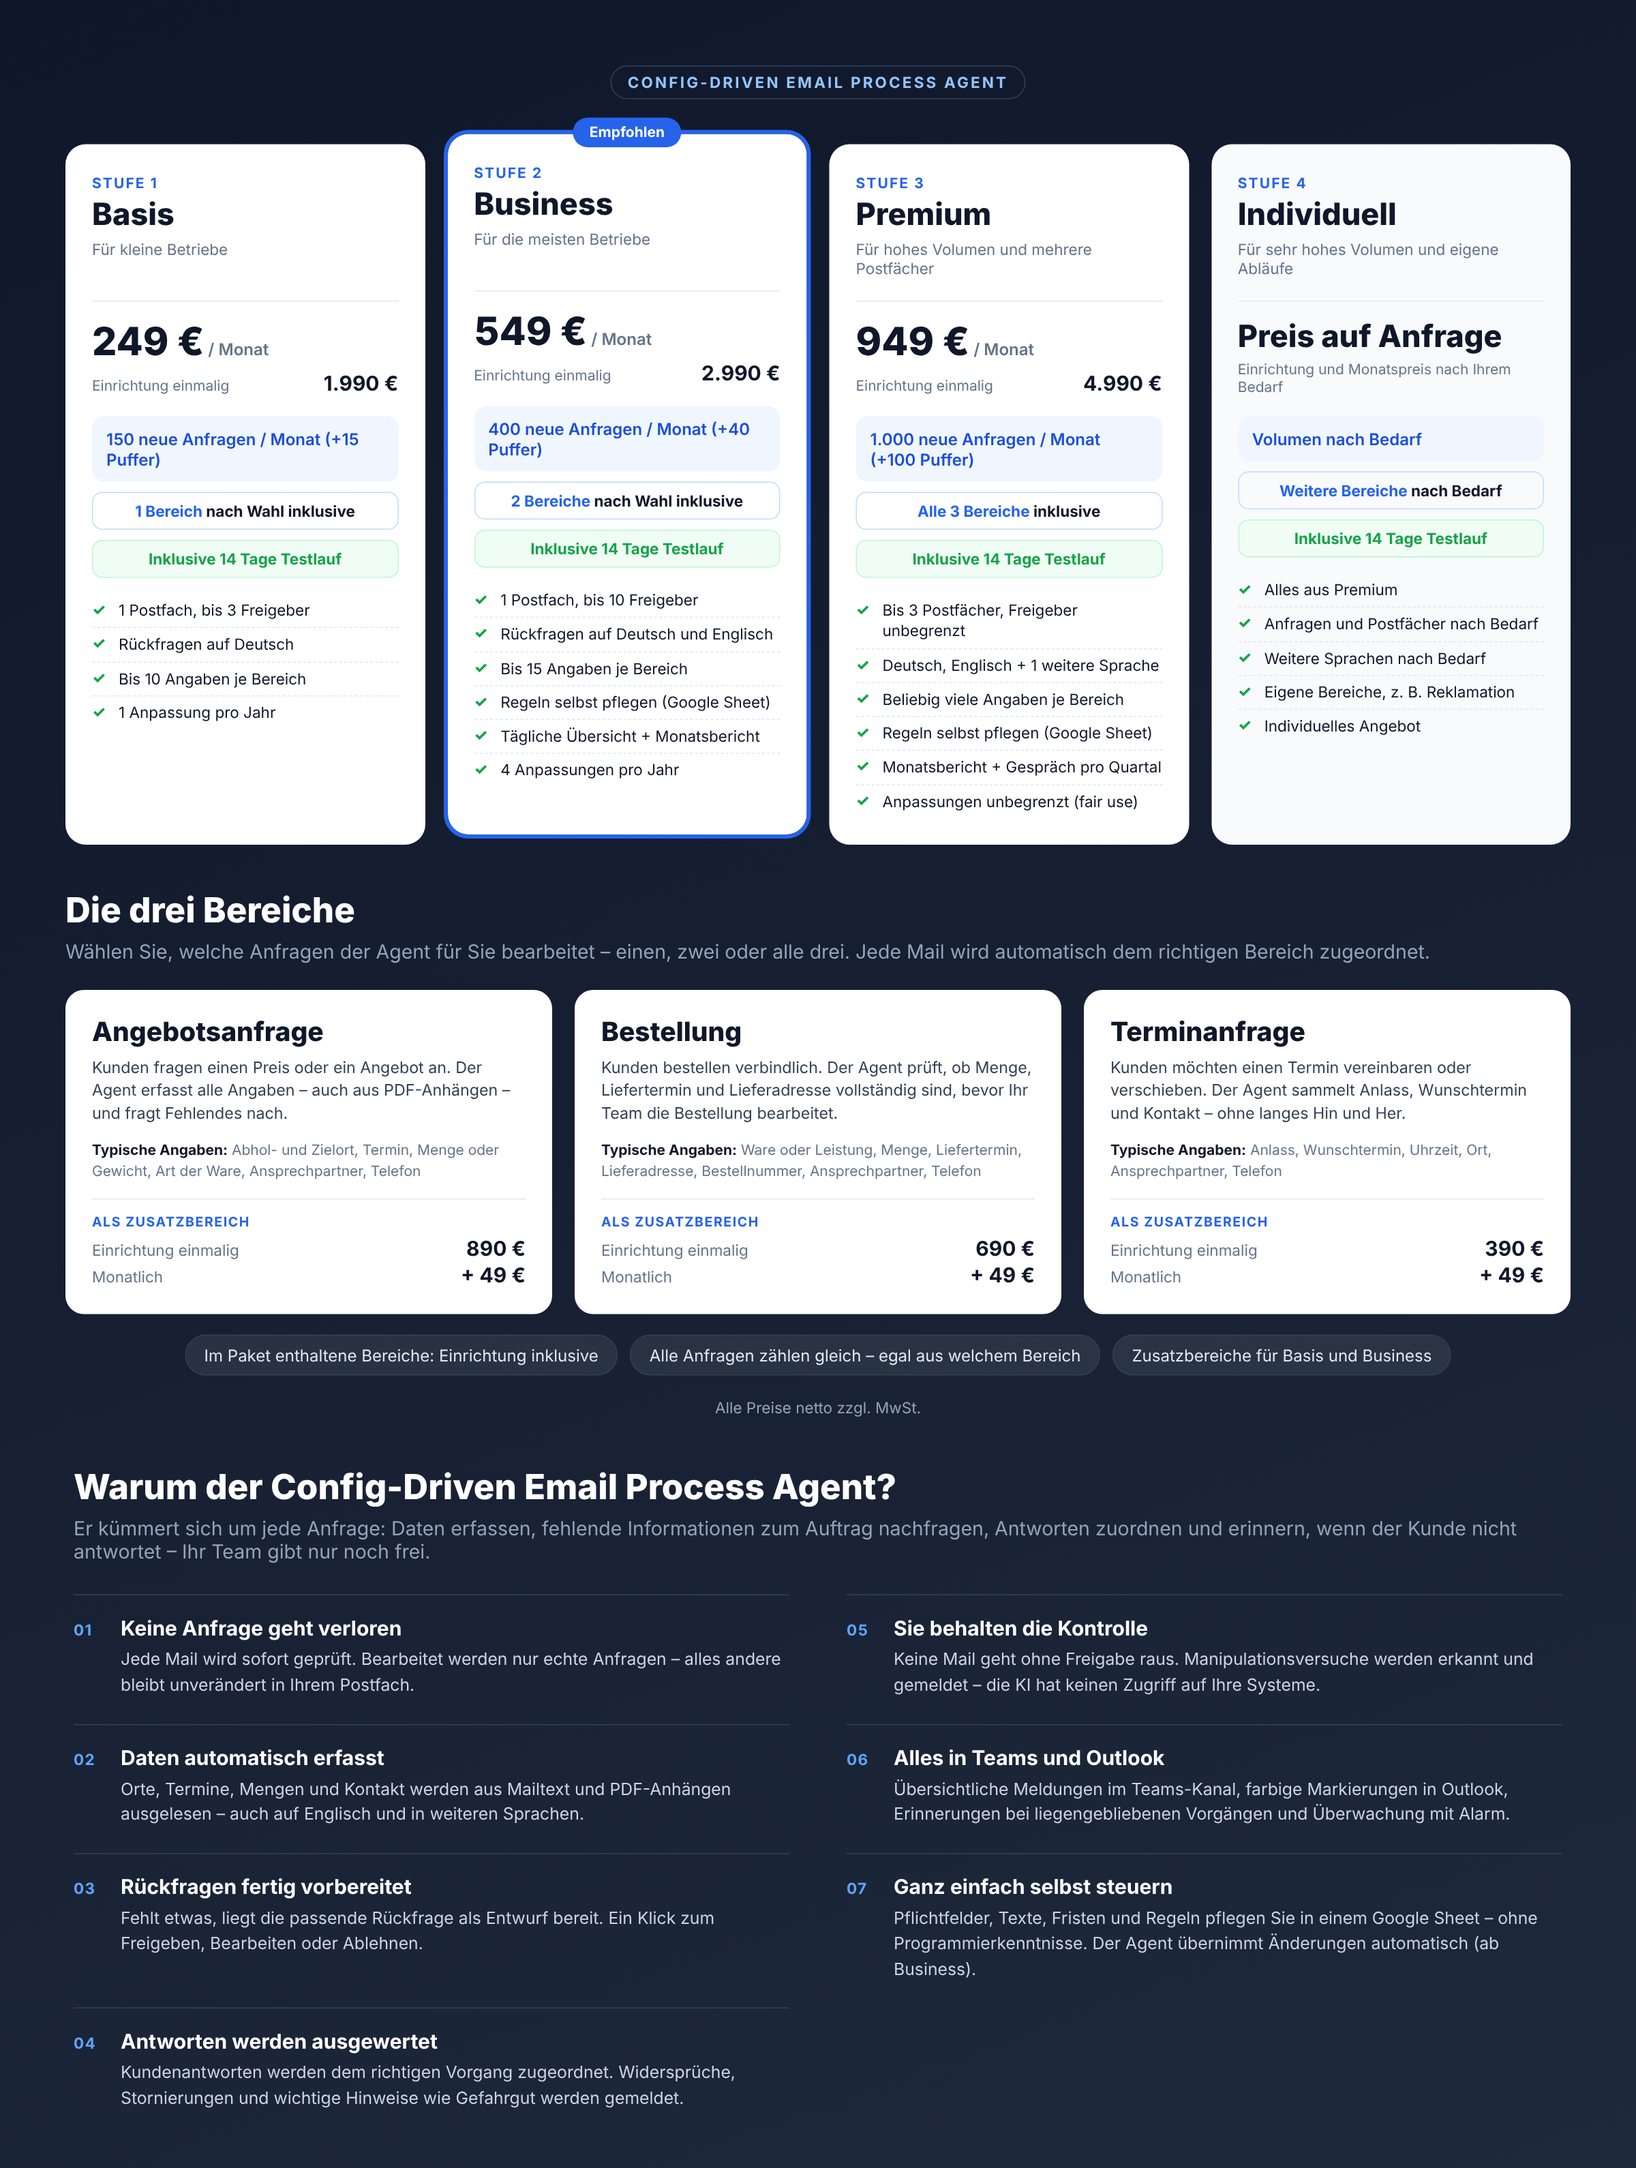
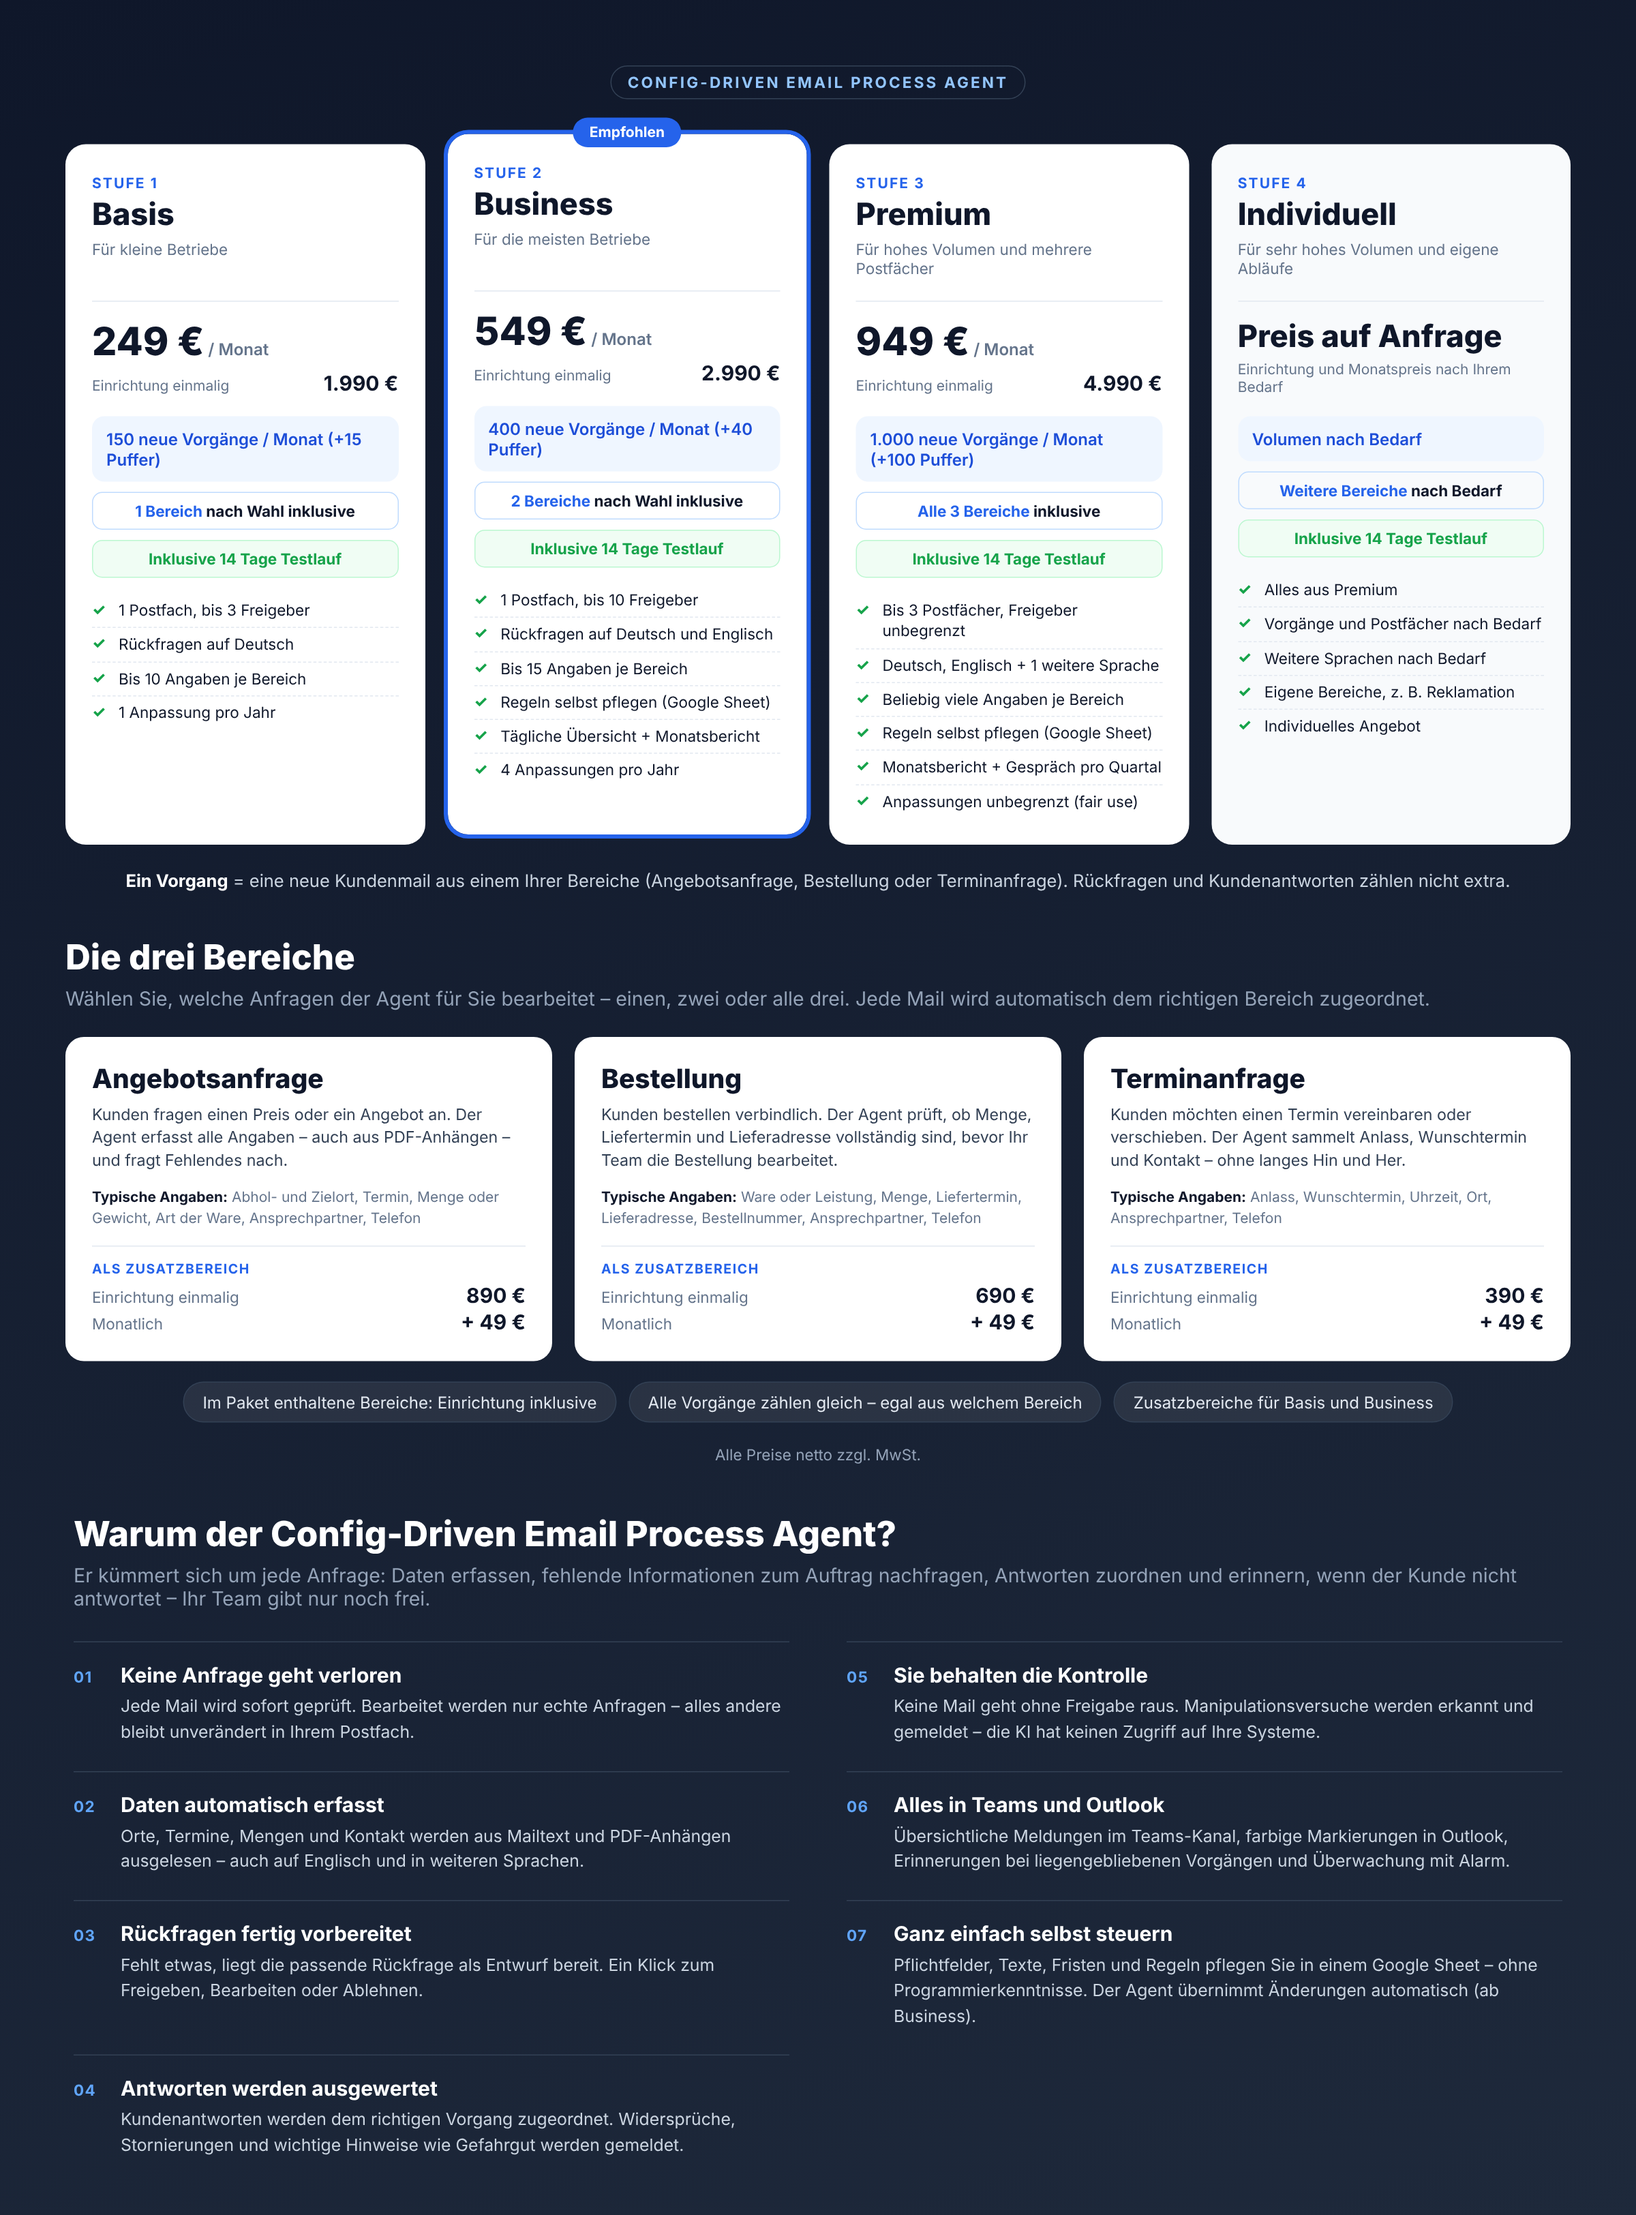
Marketing: Kontingent als Vorgänge statt Anfragen, mit Erklärung
Claude-Session: https://claude.ai/code/session_01DWBN4EiRV4Kip9NV7YGeLF

diff --git a/email-process-agent/docs/marketing/pakete-bereiche.html b/email-process-agent/docs/marketing/pakete-bereiche.html
@@ -68,6 +68,8 @@ li::before{content:"✓";position:absolute;left:0;top:5px;color:var(--ok);font-w
 .b .zus .w b{font-size:20px;color:var(--ink)}
 .hinweis{margin-top:20px;display:flex;flex-wrap:wrap;gap:12px;justify-content:center}
 .hinweis span{background:rgba(255,255,255,.08);border:1px solid #334155;border-radius:999px;padding:9px 18px;font-size:16px;color:#e2e8f0}
+.def{margin-top:26px;text-align:center;font-size:17px;color:#cbd5e1}
+.def b{color:#fff}
 </style></head><body>
 <div class="kopf">
   <div class="tag">Config-Driven Email Process Agent</div>
@@ -82,7 +84,7 @@ li::before{content:"✓";position:absolute;left:0;top:5px;color:var(--ok);font-w
       <div class="zeile"><span class="mon">249 €<small> / Monat</small></span></div>
       <div class="zeile"><span class="l">Einrichtung einmalig</span><span class="ein">1.990 €</span></div>
     </div>
-    <div class="menge">150 neue Anfragen / Monat (+15 Puffer)</div>
+    <div class="menge">150 neue Vorgänge / Monat (+15 Puffer)</div>
     <div class="bereiche-inkl"><span>1 Bereich</span> nach Wahl inklusive</div>
     <div class="test">Inklusive 14 Tage Testlauf</div>
     <ul>
@@ -101,7 +103,7 @@ li::before{content:"✓";position:absolute;left:0;top:5px;color:var(--ok);font-w
       <div class="zeile"><span class="mon">549 €<small> / Monat</small></span></div>
       <div class="zeile"><span class="l">Einrichtung einmalig</span><span class="ein">2.990 €</span></div>
     </div>
-    <div class="menge">400 neue Anfragen / Monat (+40 Puffer)</div>
+    <div class="menge">400 neue Vorgänge / Monat (+40 Puffer)</div>
     <div class="bereiche-inkl"><span>2 Bereiche</span> nach Wahl inklusive</div>
     <div class="test">Inklusive 14 Tage Testlauf</div>
     <ul>
@@ -121,7 +123,7 @@ li::before{content:"✓";position:absolute;left:0;top:5px;color:var(--ok);font-w
       <div class="zeile"><span class="mon">949 €<small> / Monat</small></span></div>
       <div class="zeile"><span class="l">Einrichtung einmalig</span><span class="ein">4.990 €</span></div>
     </div>
-    <div class="menge">1.000 neue Anfragen / Monat (+100 Puffer)</div>
+    <div class="menge">1.000 neue Vorgänge / Monat (+100 Puffer)</div>
     <div class="bereiche-inkl"><span>Alle 3 Bereiche</span> inklusive</div>
     <div class="test">Inklusive 14 Tage Testlauf</div>
     <ul>
@@ -146,7 +148,7 @@ li::before{content:"✓";position:absolute;left:0;top:5px;color:var(--ok);font-w
     <div class="test">Inklusive 14 Tage Testlauf</div>
     <ul>
       <li>Alles aus Premium</li>
-      <li>Anfragen und Postfächer nach Bedarf</li>
+      <li>Vorgänge und Postfächer nach Bedarf</li>
       <li>Weitere Sprachen nach Bedarf</li>
       <li>Eigene Bereiche, z. B. Reklamation</li>
       <li>Individuelles Angebot</li>
@@ -154,6 +156,7 @@ li::before{content:"✓";position:absolute;left:0;top:5px;color:var(--ok);font-w
   </div>
 </div>
 
+<div class="def"><b>Ein Vorgang</b> = eine neue Kundenmail aus einem Ihrer Bereiche (Angebotsanfrage, Bestellung oder Terminanfrage). Rückfragen und Kundenantworten zählen nicht extra.</div>
 <div class="ber">
   <h2>Die drei Bereiche</h2>
   <div class="sub">Wählen Sie, welche Anfragen der Agent für Sie bearbeitet – einen, zwei oder alle drei. Jede Mail wird automatisch dem richtigen Bereich zugeordnet.</div>
@@ -185,7 +188,7 @@ li::before{content:"✓";position:absolute;left:0;top:5px;color:var(--ok);font-w
   </div>
   <div class="hinweis">
     <span>Im Paket enthaltene Bereiche: Einrichtung inklusive</span>
-    <span>Alle Anfragen zählen gleich – egal aus welchem Bereich</span>
+    <span>Alle Vorgänge zählen gleich – egal aus welchem Bereich</span>
     <span>Zusatzbereiche für Basis und Business</span>
   </div>
 </div>
